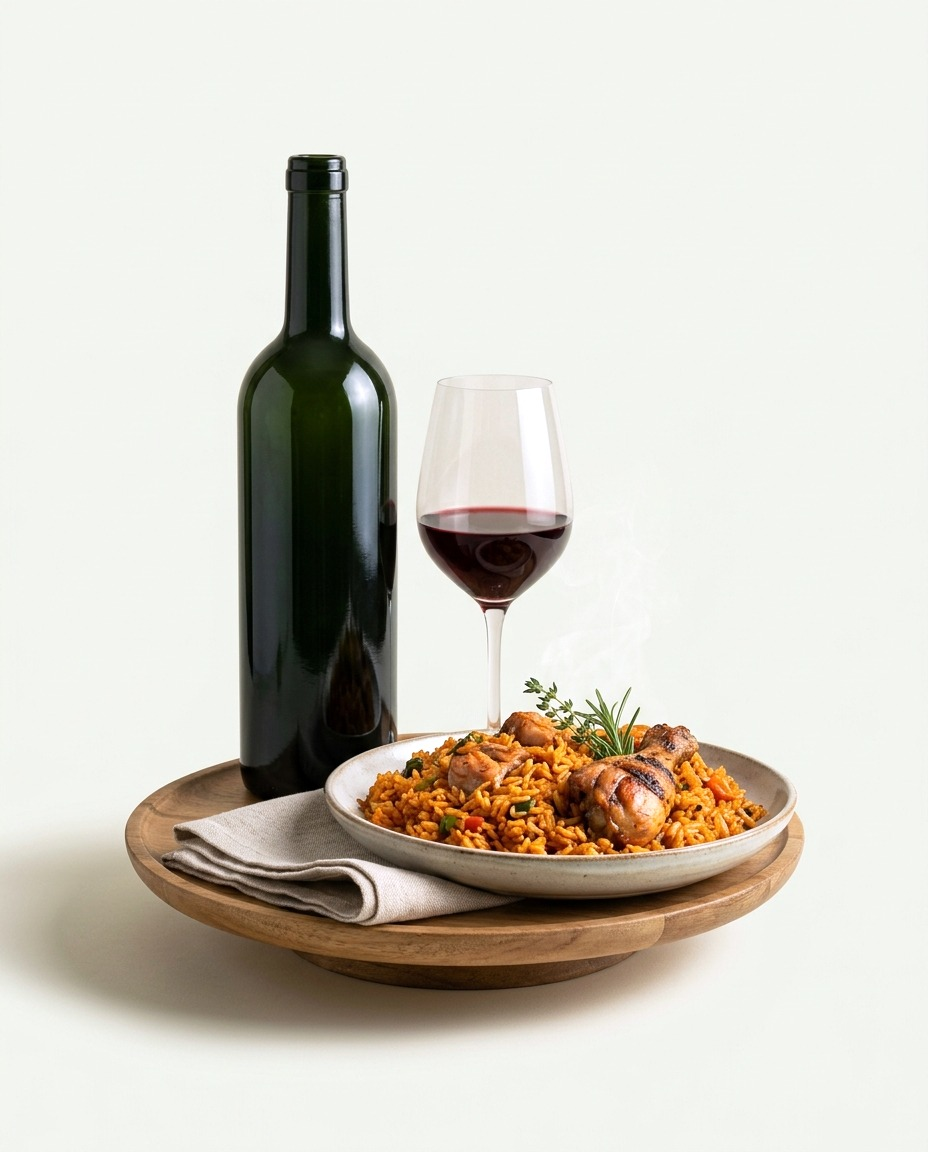
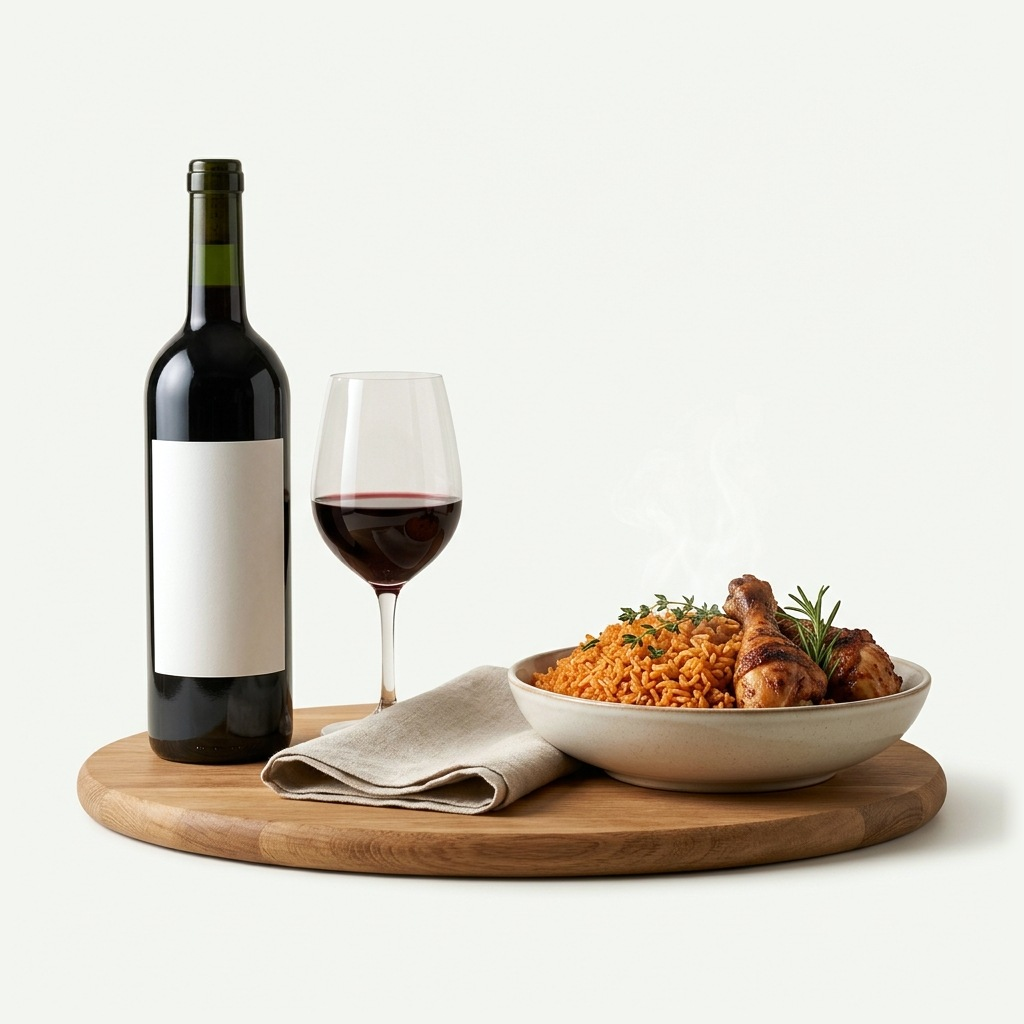
Install the wide food-and-drink hero image, and pin the headline to two lines
Replaces the hero image with Paul's third generation: bottle, poured
glass, napkin and a bowl of jollof rice with grilled chicken spread
horizontally across a round wooden board, so the composition takes the
width he asked for and both product lines are represented.

Processed offline rather than disguised at runtime. The delivered
background was a flat #EDEEE6, uniform at every corner but slightly
darker than the page, so a per-channel gain maps it exactly onto
#F3F5F0; the generator's decorative sparkle is painted out touching
only pixels brighter than the ground; and the outer 22px is feathered
so the board's shadow cannot terminate in a straight line where it
grazes the right edge -- the defect that spoiled the first attempt.
Verified after processing: every corner reads exactly 243,245,240 and
zero pixels on the whole border ring deviate from the ground.

Also fixes a real latent bug the new image exposed. Heading hardcodes
text-heading-1 (39px) for an h1 with no way to opt out, and a plain
text-[26px] has identical specificity -- so which one won was decided
by Tailwind's emitted source order, not by intent. A rebuild flipped it
and mobile silently went back to three lines. The size steps are now
marked important, the same fix Thumbnail already uses against
Container. Re-measured: two lines at 1440, 900, 390 and 320px.

Documents both dead ends so they are not repeated: a transparent
background request returns RGB with no alpha and a painted-on
[…]

diff --git a/storefront/src/modules/home/components/hero/index.tsx b/storefront/src/modules/home/components/hero/index.tsx
@@ -44,14 +44,14 @@ const HERO_IMAGE = "/brand/hero-food-drink.jpg"
  */
 function HeroVisual() {
   return (
-    <div className="relative mx-auto w-full max-w-[480px]">
+    <div className="relative mx-auto w-full max-w-[560px]">
       <Image
         src={HERO_IMAGE}
-        alt="A bottle of red wine and a poured glass beside a plate of Nigerian jollof rice with grilled chicken, on a wooden serving pedestal"
-        width={928}
-        height={1152}
+        alt="A bottle of red wine, a poured glass, a linen napkin and a bowl of Nigerian jollof rice with grilled chicken, arranged on a round wooden serving board"
+        width={1024}
+        height={1024}
         priority
-        sizes="(max-width: 1024px) 85vw, 480px"
+        sizes="(max-width: 1024px) 88vw, 560px"
         className="h-auto w-full"
       />
     </div>
@@ -129,13 +129,22 @@ export default function Hero() {
             Sold &amp; delivered directly by us
           </span>
 
-          {/* Tighter leading and a hard size step are what give a display
-              line presence; at the default body leading the same words read
-              as a paragraph that happens to be large. */}
+          {/* Tighter leading and a hard size step are what give a display line
+              presence; at the default body leading the same words read as a
+              paragraph that happens to be large.
+
+              `!` on every size step is load-bearing, not habit. `Heading`
+              hardcodes `text-heading-1` (39px) for an h1 and offers no way to
+              opt out, and a plain `text-[26px]` has *identical* specificity —
+              so which one wins is decided by Tailwind's emitted source order
+              rather than by intent. That silently cost the two-line headline
+              once already: a build ordered it the other way and mobile went
+              back to three lines. Same reason `Thumbnail` overrides
+              `Container` with `!p-0`. */}
           <Heading
             level="h1"
             display
-            className="max-w-[24ch] text-balance text-[26px] font-semibold leading-[1.08] tracking-[-0.02em] text-text-primary xsmall:text-[34px] small:text-[42px] medium:text-[50px]"
+            className="max-w-[24ch] text-balance !text-[26px] font-semibold leading-[1.08] tracking-[-0.02em] text-text-primary xsmall:!text-[34px] small:!text-[42px] medium:!text-[50px]"
           >
             Nigeria&rsquo;s premium wine, spirits &amp; kitchen.
           </Heading>

diff --git a/storefront/public/brand/IMAGE_CREDITS.md b/storefront/public/brand/IMAGE_CREDITS.md
@@ -1,49 +1,55 @@
 # Image credits
 
 Every third-party or generated image self-hosted under `public/brand/` is
-listed here with its source and licence. **A CC BY licence requires
-attribution — do not remove an entry without also removing the asset.**
+listed here with its source and licence.
 
 | File | Source | Licence / rights |
 |---|---|---|
 | `hero-food-drink.jpg` | Generated by Paul with Google Gemini from the brief in `HERO_IMAGE_BRIEF.md`, then processed (see below) | Paul's own generated asset — no third-party attribution required |
 
 **Previously here and now removed:** `hero-wine.jpg` (Evan Swigart via Wikimedia
-Commons, CC BY 2.0). It was a wine-only stand-in and is superseded by the image
-above, which shows both product lines. The file is deleted, so its attribution
-requirement no longer applies.
+Commons, CC BY 2.0) — a wine-only stand-in, superseded. The file is deleted, so
+its attribution requirement no longer applies.
 
 ## What was done to `hero-food-drink.jpg`
 
-The generated file's background was a flat `#E5E7D7` — uniform across all four
-corners, but darker and greener than the page's `#F3F5F0`, so it would have
-shown as a visible rectangle.
+The generated file's background was a flat `#EDEEE6` (237, 238, 230) — measured
+identical at all four corners and both mid-edges, but slightly darker and
+warmer than the page's `#F3F5F0`, so it would have shown as a faint rectangle.
 
-Rather than disguise that at runtime with a blend mode and filters (which the
-previous stand-in needed, at the cost of washing out the product and erasing
-its shadow), the correction was **baked into the file**: a per-channel gain of
-`1.061 / 1.058 / 1.116` maps the ground exactly onto `#F3F5F0`, verified
-afterwards at every corner as within ±2 (JPEG noise, invisible). The
-generator's decorative sparkle in the lower right was also painted out, touching
-only pixels *brighter* than the ground so the wooden board and the contact
-shadow were left intact.
+Rather than disguise that at runtime with a blend mode and filters, the
+correction is **baked into the file**:
+
+1. **Sparkle removed.** The generator added a small decorative star in the
+   lower right. Only pixels *brighter* than the ground were painted out, so the
+   wooden board and its contact shadow — both darker — were untouched.
+2. **Per-channel gain of `1.0253 / 1.0294 / 1.0435`** maps the ground exactly
+   onto `#F3F5F0`. Verified afterwards: all four corners and the right mid-edge
+   read exactly `243, 245, 240`.
+3. **Outer 22px feathered to the ground.** Left, top and bottom measured clean
+   already, so this is a no-op there. It exists for the right edge, where the
+   board's shadow grazed the frame and would otherwise have ended in a straight
+   vertical line — the defect that spoiled the first attempt. Verified
+   afterwards: **zero** pixels on the entire border ring deviate from the
+   ground.
 
 **Consequence for the component:** the hero needs no `mix-blend-mode`, no
 filter, no mask and no synthetic shadow. Keep it that way — match any
-replacement image's background to the section colour instead.
+replacement image's background to the section colour instead of reaching for a
+blend mode, which costs product colour and erases the photo's real shadow.
 
-## Known defect in the current image
+## Two earlier attempts, and why they failed
 
-⚠ **The contact shadow is clipped on the left edge.** Measured on the file:
-the extreme left column carries dark pixels from roughly y840–984 (darkest 196
-against a 243 ground), where the shadow runs out of frame and terminates in a
-straight vertical line. The right and bottom edges are clean.
+Recorded so the same ground isn't re-covered:
 
-This is baked into the source image — no CSS can repair a shadow that is
-already cut. It is a source-image problem to fix on the next generation, and
-`HERO_IMAGE_BRIEF.md` now carries explicit rules requiring every object *and
-its shadow* to sit fully inside the frame with clear margins.
-
-A second, related request is open: the composition is a narrow vertical stack
-in a tall frame, and should instead spread horizontally so the content fills
-more width.
+- **Attempt 1** (portrait, wine only) — composition was a narrow vertical stack
+  and the contact shadow ran off the **left** edge, terminating in a straight
+  line. A shadow already clipped in the source cannot be repaired in CSS.
+- **Attempt 2** (asked for a transparent background) — the generator returned
+  `colorType=2`, RGB with **no alpha channel**: it had *painted a picture of* a
+  transparency checkerboard rather than producing real transparency. Because
+  the checkerboard is baked into the pixels, wherever it sat behind the wine
+  glass, the steam or the shadow it is blended into them and cannot be
+  separated cleanly — stripping it left fragments in exactly those places.
+  **Do not ask a generator for a transparent background for this.** Ask for a
+  solid one and normalise it, which is what the current file does.

diff --git a/storefront/public/brand/HERO_IMAGE_BRIEF.md b/storefront/public/brand/HERO_IMAGE_BRIEF.md
@@ -1,7 +1,7 @@
 # Hero image brief — what to make in Canva
 
 Everything needed to produce the homepage hero visual so it drops straight in
-and needs no code change. Replaces `hero-wine.jpg`.
+and needs no code change. Produces `hero-food-drink.jpg`.
 
 ---
 
@@ -31,14 +31,16 @@ In Canva: click the canvas → the colour swatch → type `F3F5F0`.
 **Do not use pure white `#FFFFFF`.** It is brighter than the page and will read
 as a glowing rectangle — this is exactly what went wrong before.
 
-### Better option, if you have Canva Pro
+### Do not ask for a transparent background
 
-Export as **PNG with a transparent background** instead (Share → Download →
-PNG → tick *Transparent background*). Then the image sits on any colour and is
-future-proof if the page tint ever changes. If you do this, keep a soft shadow
-under the objects or they will look like they're floating.
+This was tried and it failed — see the Lessons section at the end. A real
+alpha channel from Canva's own export is fine, but **an AI generator asked for
+transparency will draw a picture of a checkerboard instead**, which is
+unusable. A solid, flat background is the reliable route.
 
-Either option works. Flat `#F3F5F0` is simpler; transparent is more flexible.
+It also does not need to be exactly `#F3F5F0`. Flat and uniform matters far
+more than exact: any even background can be mapped onto the page colour in
+code, which is what the current image went through.
 
 ---
 
@@ -111,15 +113,38 @@ The wine's own deep red is fine — that is a product colour, not UI red.
 
 ## 7. When it's done
 
-Save it as **`hero-wine.jpg`** (or `.png`) into `storefront/public/brand/`,
-replacing the current file. No code change is needed — the path is a single
+Hand the raw file over — it needs a short processing pass before it ships
+(background normalised onto `#F3F5F0`, any decorative sparkle painted out,
+outer edge feathered so no shadow can terminate in a straight line). The
+current image went through exactly that; `IMAGE_CREDITS.md` records the
+numbers used.
+
+Once processed it is saved as **`hero-food-drink.jpg`** in
+`storefront/public/brand/`. No code change is needed — the path is a single
 constant in the hero component.
 
-**One thing to tell whoever installs it:** if you export a *transparent* PNG, or
-a background that is not `#F3F5F0`, the `mix-blend-mode: multiply` and the
-brightness/saturate filters currently on the image must be removed, or the
-image will look muddy. Those filters exist only to rescue the current
-stand-in photo, whose background is grey rather than the page colour. A
-purpose-made image should not need them at all.
+**The component carries no `mix-blend-mode`, no filter and no mask, and it
+should stay that way.** Those were only ever needed to rescue an image whose
+background did not match the page. Fix the background instead.
 
 Record the source and licence in `IMAGE_CREDITS.md` in this folder.
+
+---
+
+## Lessons from the three attempts that produced the current image
+
+Read this before re-generating.
+
+1. **Never ask for a transparent background.** Attempt 2 came back as RGB with
+   no alpha channel — the generator had *drawn* a grey-and-white checkerboard
+   instead. That pattern is baked into the pixels, so where it sits behind the
+   glass, the steam or the shadow it is blended into them and cannot be cleanly
+   removed. Ask for a **solid** background and let it be normalised in code.
+2. **State the margin and shadow rules explicitly.** Attempt 1's contact shadow
+   ran off the left edge and ended in a straight line, which no CSS can repair.
+   The brief now requires every object *and its shadow* to sit fully inside the
+   frame.
+3. **Expect a decorative sparkle** in a corner and plan to paint it out.
+4. **A slightly-off flat background is fine.** The delivered image was
+   `#EDEEE6`, not `#F3F5F0`, and a per-channel gain mapped it exactly onto the
+   page colour. Flat and uniform matters far more than exact.
